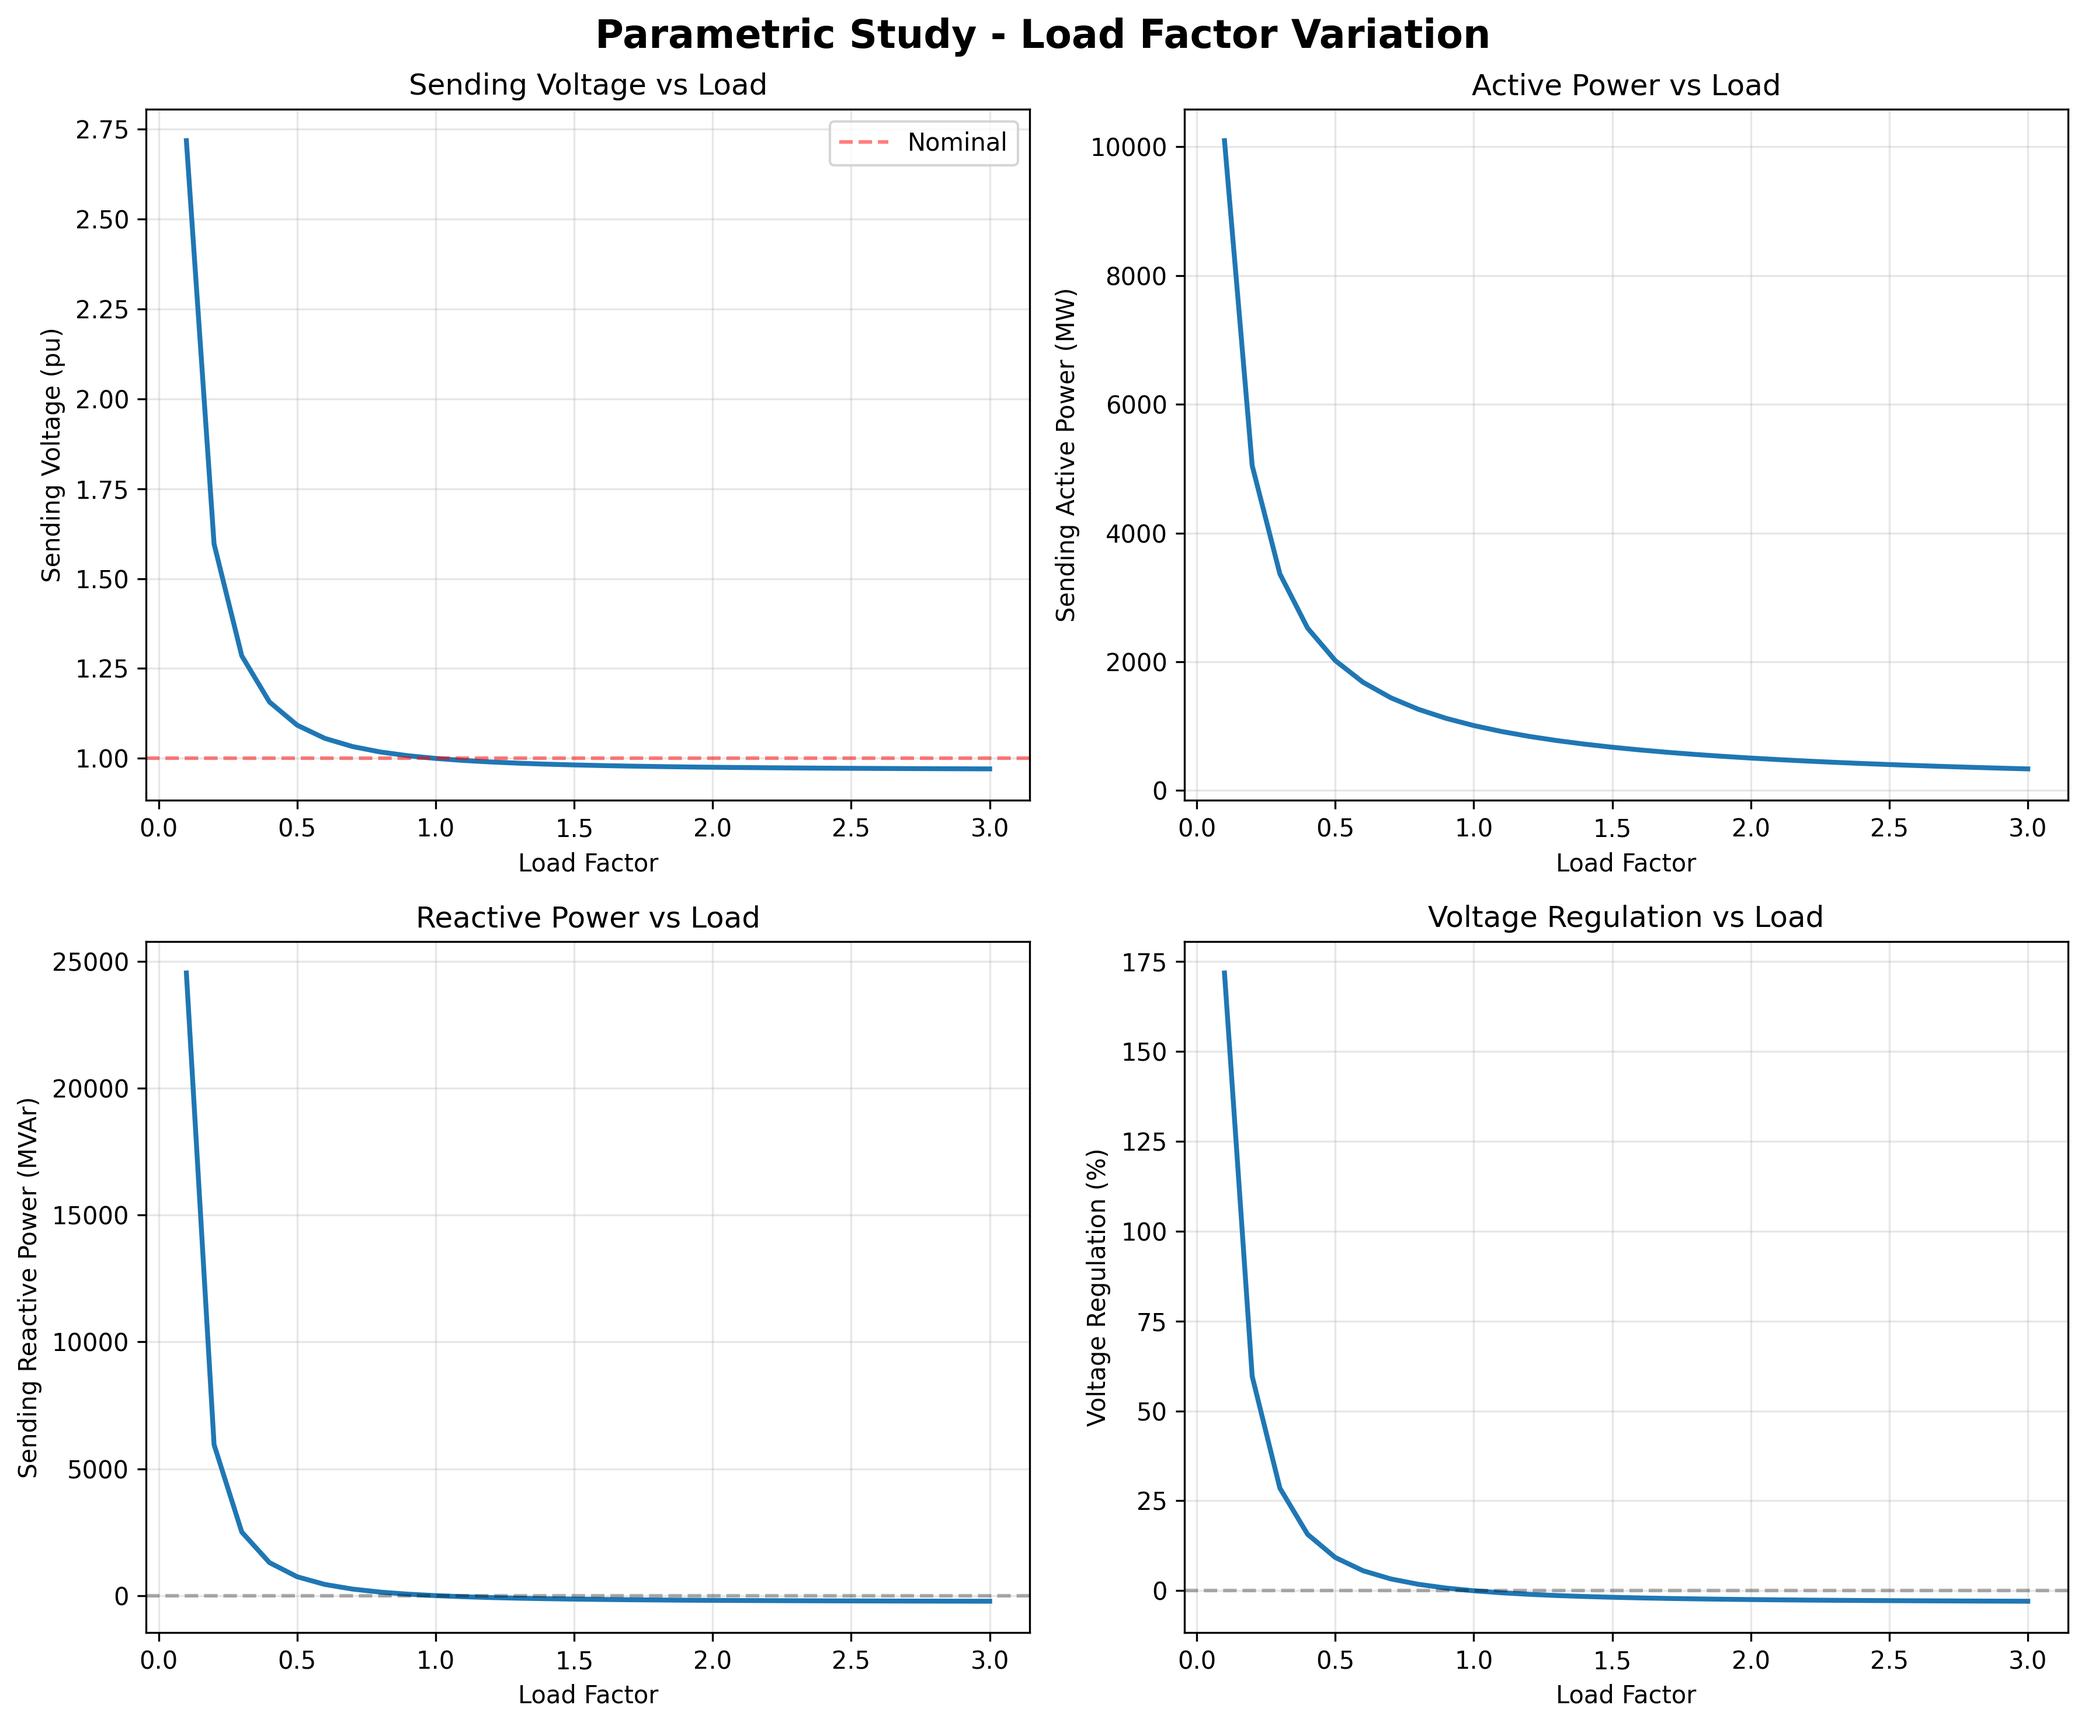
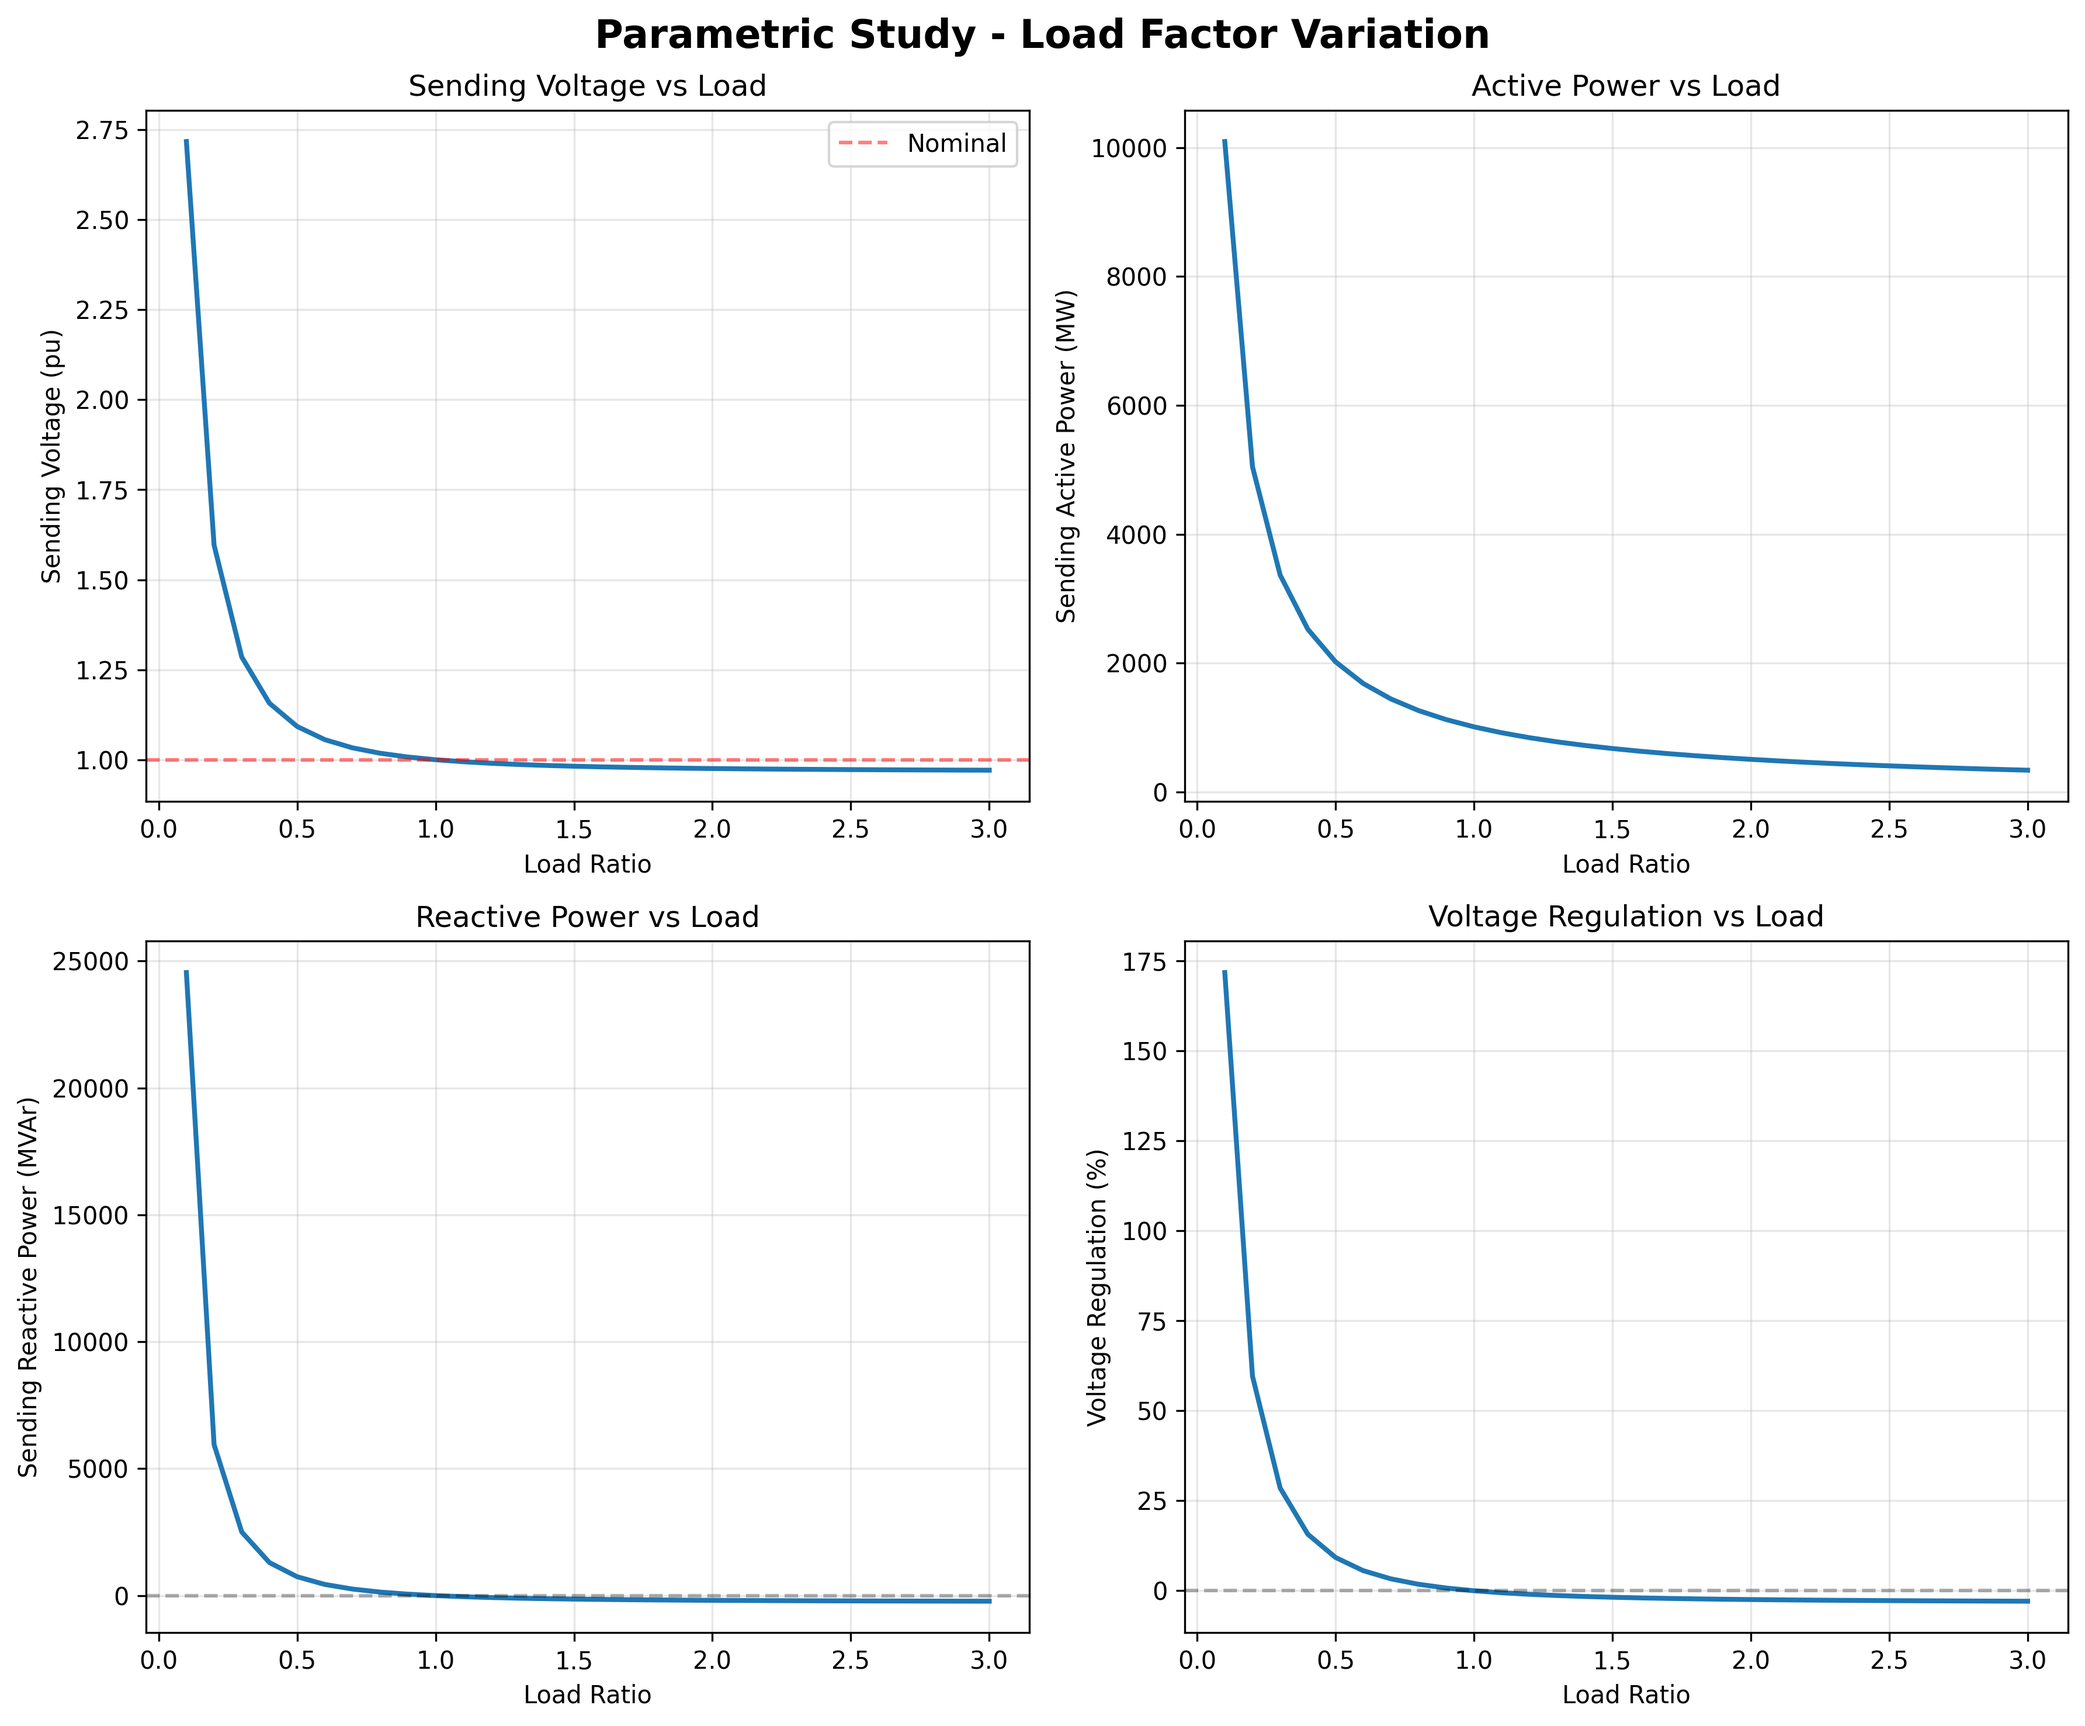
some updates

diff --git a/reativos_LT/transmission_line_simple.py b/reativos_LT/transmission_line_simple.py
@@ -238,7 +238,7 @@ if __name__ == "__main__":
     
     # Create comparison plots
     fig = create_comparison_plots(line, results)
-    plt.savefig('/mnt/user-data/outputs/transmission_line_comparison.png', 
+    plt.savefig('transmission_line_comparison.png', 
                 dpi=300, bbox_inches='tight')
     print(f"\n{'=' * 70}")
     print("✓ Comparison plot saved to: transmission_line_comparison.png")
@@ -246,7 +246,7 @@ if __name__ == "__main__":
     
     # Additional parametric study
     print("\n" + "=" * 70)
-    print("PARAMETRIC STUDY - Load Factor Sweep")
+    print("PARAMETRIC STUDY - Load Ratio Sweep")
     print("=" * 70)
     
     load_factors = np.linspace(0.1, 3.0, 30)
@@ -264,7 +264,7 @@ if __name__ == "__main__":
     
     ax = axes[0, 0]
     ax.plot(load_factors, [r['vs_pu'] for r in parametric_results], linewidth=2)
-    ax.set_xlabel('Load Factor')
+    ax.set_xlabel('Load Ratio')
     ax.set_ylabel('Sending Voltage (pu)')
     ax.set_title('Sending Voltage vs Load')
     ax.grid(True, alpha=0.3)
@@ -273,7 +273,7 @@ if __name__ == "__main__":
     
     ax = axes[0, 1]
     ax.plot(load_factors, [r['Ps'] for r in parametric_results], linewidth=2)
-    ax.set_xlabel('Load Factor')
+    ax.set_xlabel('Load Ratio')
     ax.set_ylabel('Sending Active Power (MW)')
     ax.set_title('Active Power vs Load')
     ax.grid(True, alpha=0.3)
@@ -281,7 +281,7 @@ if __name__ == "__main__":
     ax = axes[1, 0]
     ax.plot(load_factors, [r['Qs'] for r in parametric_results], linewidth=2)
     ax.axhline(y=0, color='k', linestyle='--', alpha=0.3)
-    ax.set_xlabel('Load Factor')
+    ax.set_xlabel('Load Ratio')
     ax.set_ylabel('Sending Reactive Power (MVAr)')
     ax.set_title('Reactive Power vs Load')
     ax.grid(True, alpha=0.3)
@@ -289,13 +289,13 @@ if __name__ == "__main__":
     ax = axes[1, 1]
     ax.plot(load_factors, [r['voltage_reg'] for r in parametric_results], linewidth=2)
     ax.axhline(y=0, color='k', linestyle='--', alpha=0.3)
-    ax.set_xlabel('Load Factor')
+    ax.set_xlabel('Load Ratio')
     ax.set_ylabel('Voltage Regulation (%)')
     ax.set_title('Voltage Regulation vs Load')
     ax.grid(True, alpha=0.3)
     
     plt.tight_layout()
-    plt.savefig('/mnt/user-data/outputs/parametric_study.png', 
+    plt.savefig('parametric_study.png', 
                 dpi=300, bbox_inches='tight')
     print("✓ Parametric study plot saved to: parametric_study.png")
     print("=" * 70)

diff --git a/reativos_LT/transmission_line_analysis.py b/reativos_LT/transmission_line_analysis.py
@@ -97,7 +97,7 @@ def analyze_scenario(scenario_name, vr, ir_factor):
 scenarios = []
 
 print("=" * 70)
-print("CENÁRIO 1: CARREGAMENTO NOMINAL (Loading Factor = 1.0)")
+print("CENÁRIO 1: CARREGAMENTO NOMINAL (Load/Nominal Load Ratio = 1.0)")
 print("=" * 70)
 vr1 = 1.0 * vb
 result1 = analyze_scenario("Nominal Loading", vr1, 1.0)
@@ -120,7 +120,7 @@ print(f"Losses: {result1['losses_p']:.2f} MW, {result1['losses_q']:.2f} MVAr")
 print()
 
 print("=" * 70)
-print("CENÁRIO 2: CARGA ABAIXO DA NOMINAL (Loading Factor = 0.5)")
+print("CENÁRIO 2: CARGA ABAIXO DA NOMINAL (Loading Ratio = 0.5)")
 print("=" * 70)
 vr2 = 1.0 * vb
 result2 = analyze_scenario("Below Nominal (50%)", vr2, 2.0)
@@ -143,7 +143,7 @@ print(f"Losses: {result2['losses_p']:.2f} MW, {result2['losses_q']:.2f} MVAr")
 print()
 
 print("=" * 70)
-print("CENÁRIO 3: CARGA ACIMA DA NOMINAL (Loading Factor = 2.0)")
+print("CENÁRIO 3: CARGA ACIMA DA NOMINAL (Loading Ratio = 2.0)")
 print("=" * 70)
 vr3 = 1.0 * vb
 result3 = analyze_scenario("Above Nominal (200%)", vr3, 0.5)
